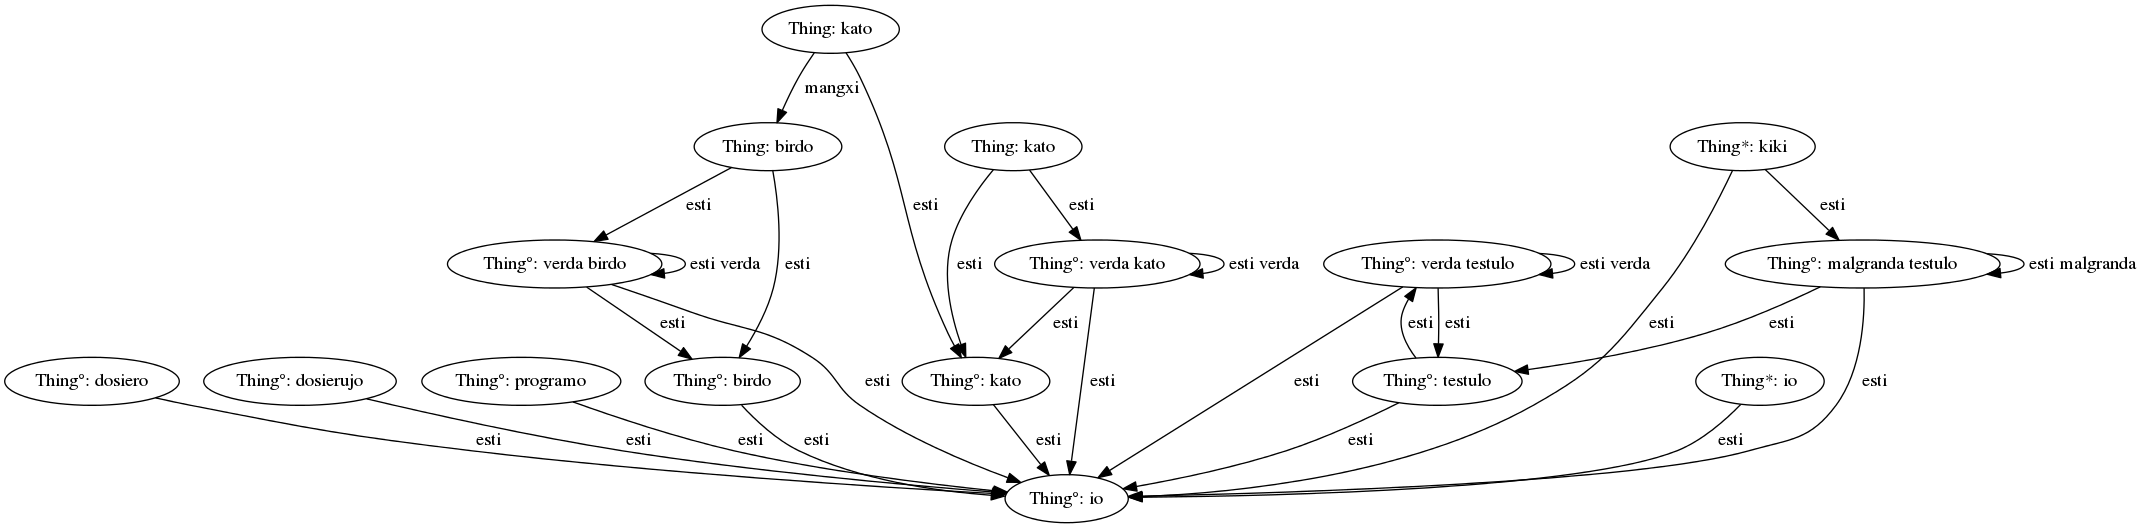
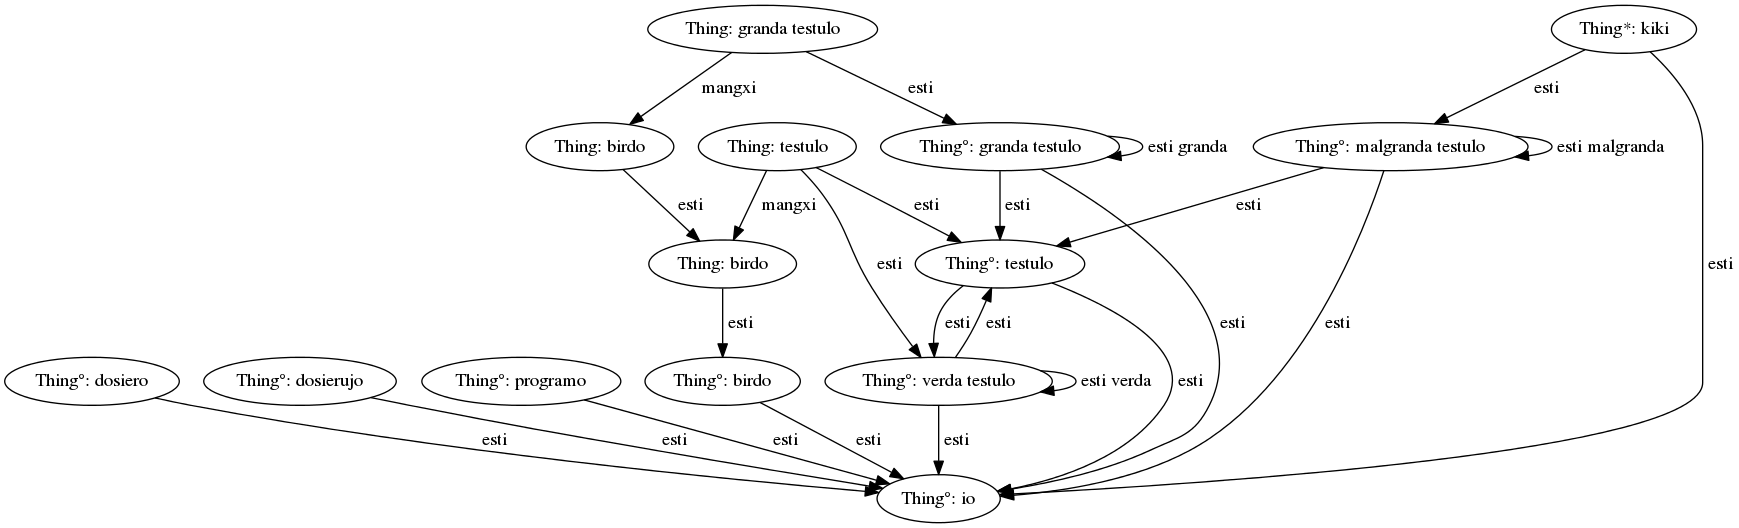
whatever

diff --git a/src/main.cpp b/src/main.cpp
@@ -10,16 +10,16 @@ int main()
 //     jarvo.feed("Kio mangxas la testulon ?");
 //     jarvo.feed("\"françois\" estas la \"prezidento de ISIBOT\"");
 //     jarvo.feed("brain.dot estas dosiero.");
-    jarvo.feed("Kio estas dosiero ?");
-    jarvo.feed("Kato mangxas birdon.");
-    jarvo.feed("La birdo estas verda.");
-    jarvo.feed("Kato estas verda.");
-    jarvo.feed("Kio estas verda ?");
-    jarvo.feed("Kiki estas malgranda testulo.");
-    jarvo.feed("Cxiu testulo estas verda.");
-//     jarvo.feed("Testulo mangxas birdon.");
-//     jarvo.feed("La testulo estas verda.");
-//     jarvo.feed("Granda testulo mangxas birdon.");
+//     jarvo.feed("Kio estas dosiero ?");
+//     jarvo.feed("Kato mangxas birdon.");
+//     jarvo.feed("La birdo estas verda.");
+//     jarvo.feed("Kato estas verda.");
+//     jarvo.feed("Kio estas verda ?");
+     jarvo.feed("Kiki estas malgranda testulo.");
+     jarvo.feed("Cxiu testulo estas verda.");
+     jarvo.feed("Testulo mangxas birdon.");
+     jarvo.feed("La testulo estas verda.");
+     jarvo.feed("Granda testulo mangxas birdon.");
 //     jarvo.feed("La granda testulo estas verda.");
 //     jarvo.feed("La malgranda testulo estas bela.");
 //     jarvo.feed("Kiki estas testulo.");
@@ -50,6 +50,9 @@ int main()
 //     jarvo.feed("Diru \"Mi estas kreteno\"");
 //     jarvo.feed("\"dolphin\" estas programo");
 //     jarvo.feed("apertu \"dolphin\"");
+//     jarvo.feed("Mi amas Chloé");
+//     jarvo.feed("Mi estas Gérald");
+//     jarvo.feed("Gérald amas kiun ?");
 
     std::string n_str;
     std::cout << "Prompt: ";

diff --git a/src/jarvo.cpp b/src/jarvo.cpp
@@ -241,12 +241,14 @@ void Jarvo::processQuestion(Sentence& n_sentence)
                 (
                     n_sentence.subjectGroup().str() + " " +
                     n_sentence.verb()->str + " "  +
-                    t_found_node->content().str() + "n."
+                    t_found_node->content().str() + ((Link::isIsLink(*t_link_node->content())
+                    || (n_sentence.objectGroup().mainWord()->is_special))?"":"n") + "."
                 );
             }
             else
             {
-                say(n_sentence.subjectGroup().str() + n_sentence.verbGroup().str() + " nenion.");
+                say(n_sentence.subjectGroup().str() + " " + n_sentence.verb()->str + " nenio"
+                + (Link::isIsLink(*t_link_node->content())?"":"n") + ".");
             }
         }
     }

diff --git a/src/findpath.cpp b/src/findpath.cpp
@@ -1,7 +1,7 @@
 #include "findpath.h"
 
 FindPath::FindPath(Node* n_out_node, const Link& n_link, Node::LinkDirection n_direction):
-    VerticeProcess<Thing, RelationContent>(FindPath::POSTFIXED, n_direction),
+    VerticeProcess<Thing, RelationContent>(FindPath::PREFIXED, n_direction),
     m_out_node(n_out_node),
     m_link(n_link),
     m_link_found_node(0),
@@ -11,7 +11,7 @@ FindPath::FindPath(Node* n_out_node, const Link& n_link, Node::LinkDirection n_d
 }
 
 FindPath::FindPath(const Link& n_link, Node::LinkDirection n_direction):
-    VerticeProcess<Thing, RelationContent>(FindPath::POSTFIXED, n_direction),
+    VerticeProcess<Thing, RelationContent>(FindPath::PREFIXED, n_direction),
     m_out_node(0),
     m_link(n_link),
     m_link_found_node(0),

diff --git a/src/mouth.cpp b/src/mouth.cpp
@@ -1,7 +1,7 @@
 #include "mouth.h"
 #include <iostream>
 
-// #define ESPEAK
+//#define ESPEAK
 
 #ifdef ESPEAK
 #include <speak_lib.h>
